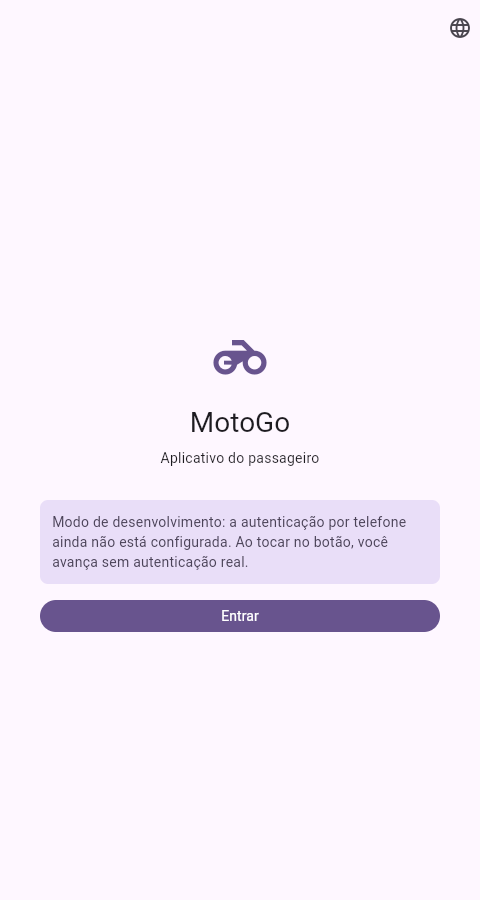
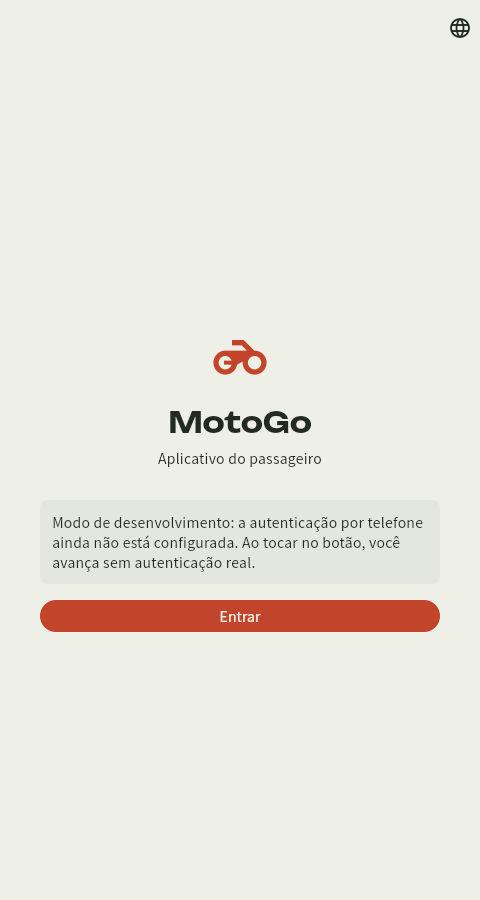
Apply MotoGo visual identity to the Flutter theme
Replaces the Flutter starter template's placeholder lavender seed color
(0xFF9C8DB6) with light/dark ColorSchemes built around two colors
specific to Registro itself, per the "MotoGo Visual Identity" design
artifact:

- Torii (vermillion, #C1442B): Registro's Torii gate, built 1993 to mark
  the arrival of the first Japanese immigrants to São Paulo state.
  Primary actions + the dropoff marker.
- Tea (muted green, #55704C): Registro has been the official "State
  Capital of Tea" (Lei 4.067/84) since 1984. Secondary/status accents —
  driver online indicator, pickup marker.

- New core/theme/motogo_theme.dart: explicit ColorScheme.light/.dark
  (not ColorScheme.fromSeed, since two specific brand colors need to
  land in specific roles) plus a TextTheme pairing Unbounded (display/
  headlines) with Noto Sans JP (body — has to render Portuguese and
  Japanese equally well). Exports toriiAccent/teaAccent as raw Colors
  for call sites without a BuildContext (the marker bitmaps drawn in
  passenger_home_screen.dart's initState).
- app.dart: theme/darkTheme wired to the new ColorSchemes, themeMode
  left at its default ThemeMode.system — the app just follows the
  device's own light/dark setting rather than reimplementing that
  switch (matches what was discussed with the user: standard practice
  is reading the OS setting, not sensing ambient light).
- passenger_home_screen.dart: pickup marker + status dot -> tea green,
[…]

Changed region(s): [[0.0625, 0.3733, 0.9375, 0.7156], [0.9375, 0.0, 0.9688, 0.0622]]

diff --git a/lib/core/theme/motogo_theme.dart b/lib/core/theme/motogo_theme.dart
@@ -1,0 +1,133 @@
+/// MotoGo's visual identity: light/dark [ThemeData] built around two colors
+/// specific to Registro itself, rather than a generic ride-hailing palette.
+/// See the "MotoGo Visual Identity" design artifact for the full rationale
+/// — in short:
+/// - **Torii** (vermillion): Registro's Torii gate, built 1993 to mark the
+///   arrival of the first Japanese immigrants to São Paulo state. Used for
+///   primary actions and the dropoff marker.
+/// - **Tea** (muted green): Registro has been the official "State Capital
+///   of Tea" (Lei 4.067/84) since 1984, from its tea plantations. Used for
+///   secondary/status accents (driver online, pickup marker).
+///
+/// This deliberately replaces the placeholder lavender seed color
+/// (`0xFF9C8DB6`) the Flutter starter template shipped with.
+///
+/// MotoGoのビジュアルアイデンティティ: 一般的な配車アプリの配色ではなく、
+/// Registro市自体に固有の2色を軸にした、ライト/ダーク両対応の
+/// [ThemeData]。詳しい経緯は「MotoGo Visual Identity」デザインArtifact
+/// 参照 — 要約すると:
+/// - **Torii（鳥居・朱色）**: 1993年、サンパウロ州への日系移民第一陣の
+///   到着を記念して建てられたRegistroの鳥居。主要なアクション、
+///   降車地点マーカーに使用。
+/// - **Tea（茶・落ち着いた緑）**: Registroは1984年の州法（4.067/84号）
+///   により正式に「茶の州都」を名乗る、茶畑の町。副次的なアクセント
+///   （ドライバーのオンライン状態、乗車地点マーカー）に使用。
+///
+/// これは、Flutterの初期テンプレートが持っていた仮のラベンダー色の
+/// seedColor（`0xFF9C8DB6`）を意図的に置き換えるもの。
+library;
+
+import 'package:flutter/material.dart';
+import 'package:google_fonts/google_fonts.dart';
+
+/// Raw brand colors, exposed directly for call sites that need a [Color]
+/// without a [BuildContext] to hand (e.g. the marker bitmaps drawn in
+/// `passenger_home_screen.dart`'s `initState`). Everywhere else, prefer
+/// reading `Theme.of(context).colorScheme` so light/dark mode is handled
+/// automatically.
+/// [BuildContext]を渡せない呼び出し元（例:
+/// `passenger_home_screen.dart`の`initState`内で描画するマーカー画像）の
+/// ために、生の色を直接公開している。それ以外の場所では、ライト/ダーク
+/// モードが自動で切り替わるよう`Theme.of(context).colorScheme`を
+/// 参照すること。
+const toriiAccent = Color(0xFFC1442B);
+const teaAccent = Color(0xFF55704C);
+
+const _toriiOnAccent = Color(0xFFFBF3EE);
+const _teaOnAccent = Color(0xFFF2F6EE);
+
+const _paperLight = Color(0xFFEEF0E7);
+const _surfaceLight = Color(0xFFFBFAF4);
+const _surfaceHighLight = Color(0xFFE4E7DB);
+const _fgLight = Color(0xFF232A1F);
+const _outlineLight = Color(0xFF656F5A);
+const _borderLight = Color(0xFFD9DCC9);
+
+const _bgDark = Color(0xFF14180F);
+const _surfaceDark = Color(0xFF1B2015);
+const _surfaceHighDark = Color(0xFF262C1D);
+const _fgDark = Color(0xFFECEEE2);
+const _outlineDark = Color(0xFF9CA48D);
+const _borderDark = Color(0xFF333A26);
+const _toriiAccentDark = Color(0xFFE2724F);
+const _toriiOnAccentDark = Color(0xFF2B1108);
+const _teaAccentDark = Color(0xFF8FAE81);
+const _teaOnAccentDark = Color(0xFF101B0C);
+
+final ColorScheme motogoLightColorScheme = ColorScheme.light(
+  primary: toriiAccent,
+  onPrimary: _toriiOnAccent,
+  primaryContainer: _surfaceHighLight,
+  onPrimaryContainer: _fgLight,
+  secondary: teaAccent,
+  onSecondary: _teaOnAccent,
+  secondaryContainer: _surfaceHighLight,
+  onSecondaryContainer: _fgLight,
+  surface: _paperLight,
+  onSurface: _fgLight,
+  surfaceContainer: _surfaceLight,
+  surfaceContainerHighest: _surfaceHighLight,
+  outline: _outlineLight,
+  outlineVariant: _borderLight,
+);
+
+final ColorScheme motogoDarkColorScheme = ColorScheme.dark(
+  primary: _toriiAccentDark,
+  onPrimary: _toriiOnAccentDark,
+  primaryContainer: _surfaceHighDark,
+  onPrimaryContainer: _fgDark,
+  secondary: _teaAccentDark,
+  onSecondary: _teaOnAccentDark,
+  secondaryContainer: _surfaceHighDark,
+  onSecondaryContainer: _fgDark,
+  surface: _bgDark,
+  onSurface: _fgDark,
+  surfaceContainer: _surfaceDark,
+  surfaceContainerHighest: _surfaceHighDark,
+  outline: _outlineDark,
+  outlineVariant: _borderDark,
+);
+
+/// Unbounded for display-scale text (the wordmark, screen headlines) paired
+/// with Noto Sans JP for everything else, since body text has to render
+/// both Portuguese and Japanese equally well.
+/// 見出し・ワードマーク用にUnbounded、それ以外はNoto Sans JPを使う —
+/// 本文はポルトガル語・日本語のどちらも同じ品質で表示する必要があるため。
+TextTheme _motogoTextTheme(ColorScheme scheme) {
+  final base = GoogleFonts.notoSansJpTextTheme().apply(
+    bodyColor: scheme.onSurface,
+    displayColor: scheme.onSurface,
+  );
+  return base.copyWith(
+    headlineMedium: GoogleFonts.unbounded(
+      textStyle: base.headlineMedium,
+      fontWeight: FontWeight.w700,
+    ),
+    headlineSmall: GoogleFonts.unbounded(
+      textStyle: base.headlineSmall,
+      fontWeight: FontWeight.w600,
+    ),
+  );
+}
+
+ThemeData _motogoTheme(ColorScheme scheme) {
+  return ThemeData(
+    useMaterial3: true,
+    colorScheme: scheme,
+    scaffoldBackgroundColor: scheme.surface,
+    textTheme: _motogoTextTheme(scheme),
+  );
+}
+
+final ThemeData motogoLightTheme = _motogoTheme(motogoLightColorScheme);
+final ThemeData motogoDarkTheme = _motogoTheme(motogoDarkColorScheme);

diff --git a/lib/features/passenger/home/passenger_home_screen.dart b/lib/features/passenger/home/passenger_home_screen.dart
@@ -9,6 +9,7 @@ import 'package:google_maps_flutter/google_maps_flutter.dart';
 import '../../../core/auth/auth_repository.dart';
 import '../../../core/auth/dev_auth_bypass.dart';
 import '../../../core/locale/language_switcher_button.dart';
+import '../../../core/theme/motogo_theme.dart';
 import '../../../l10n/generated/app_localizations.dart';
 
 /// Registro, SP city center — used as the default map camera position
@@ -184,8 +185,20 @@ class _PassengerHomeScreenState extends ConsumerState<PassengerHomeScreen> {
 
   Future<void> _loadMarkerIcons() async {
     final icons = await Future.wait([
-      _createPinBitmap(Colors.green),
-      _createPinBitmap(Colors.red),
+      // Pickup/dropoff use the brand palette (see core/theme/motogo_theme.dart)
+      // instead of generic Material red/green, so the map matches the rest
+      // of the app. The device-location dot deliberately stays plain blue —
+      // that's the universal "this is your live GPS position" convention
+      // from every native maps app, and changing it away from blue would
+      // hurt recognizability for no brand benefit.
+      // 乗車地点/降車地点はブランドカラー（core/theme/motogo_theme.dart参照）
+      // を使い、汎用的なMaterialの赤・緑にはしない — 地図がアプリ全体の
+      // 色と揃うように。現在地の点だけは意図的に青のまま —
+      // あらゆるネイティブ地図アプリ共通の「これが自分の現在地」という
+      // 慣習色であり、ブランド上のメリット無しにこれを変えると
+      // 視認性が下がるだけのため。
+      _createPinBitmap(teaAccent),
+      _createPinBitmap(toriiAccent),
       _createPinBitmap(Colors.blue),
     ]);
     if (!mounted) return;
@@ -537,7 +550,7 @@ class _PassengerHomeScreenState extends ConsumerState<PassengerHomeScreen> {
                       Expanded(
                         child: _RideStatusLine(
                           icon: Icons.circle,
-                          color: Colors.green,
+                          color: teaAccent,
                           label: _pickupLocation == null
                               ? l10n.passengerPickupNotSet
                               : l10n.passengerPickupSet,
@@ -575,7 +588,7 @@ class _PassengerHomeScreenState extends ConsumerState<PassengerHomeScreen> {
                   const SizedBox(height: 4),
                   _RideStatusLine(
                     icon: Icons.location_on,
-                    color: Colors.red,
+                    color: toriiAccent,
                     label: _dropoffLocation == null
                         ? l10n.passengerDropoffNotSet
                         : l10n.passengerDropoffSet,

diff --git a/lib/app.dart b/lib/app.dart
@@ -4,6 +4,7 @@ import 'package:flutter_riverpod/flutter_riverpod.dart';
 
 import 'core/locale/locale_controller.dart';
 import 'core/router/app_router.dart';
+import 'core/theme/motogo_theme.dart';
 import 'flavors.dart';
 import 'l10n/generated/app_localizations.dart';
 
@@ -31,12 +32,19 @@ class MotoGoApp extends ConsumerWidget {
         };
       },
       debugShowCheckedModeBanner: false,
-      theme: ThemeData(
-        useMaterial3: true,
-        colorScheme: ColorScheme.fromSeed(
-          seedColor: const Color(0xFF9C8DB6),
-        ),
-      ),
+      // See core/theme/motogo_theme.dart for the palette rationale (torii
+      // vermillion + tea green, both specific to Registro itself) — this
+      // replaces the Flutter starter template's placeholder lavender
+      // seedColor. themeMode defaults to ThemeMode.system, so the app
+      // simply follows the device's own light/dark setting rather than
+      // reimplementing that switch itself.
+      // パレットの根拠は core/theme/motogo_theme.dart 参照
+      // （鳥居の朱色＋茶畑の緑、どちらもRegistro固有）— Flutter初期
+      // テンプレートの仮のラベンダー色seedColorを置き換える。themeMode は
+      // デフォルトの ThemeMode.system のままにしているため、明暗切り替え
+      // 自体を自前で作らず、端末側のライト/ダーク設定にそのまま従う。
+      theme: motogoLightTheme,
+      darkTheme: motogoDarkTheme,
       // null means "follow the device's language" — resolved against
       // supportedLocales by localeResolutionCallback below, falling back
       // to pt (see core/locale/locale_controller.dart for why pt is the

diff --git a/lib/features/driver/home/driver_home_screen.dart b/lib/features/driver/home/driver_home_screen.dart
@@ -94,7 +94,17 @@ class _DriverHomeScreenState extends ConsumerState<DriverHomeScreen> {
               children: [
                 Icon(
                   _isOnline ? Icons.circle : Icons.circle_outlined,
-                  color: _isOnline ? Colors.green : Colors.grey,
+                  // "Online" uses the theme's secondary (tea green — see
+                  // core/theme/motogo_theme.dart), matching the pickup
+                  // marker/pill on the passenger side rather than a
+                  // generic Material green.
+                  // 「オンライン」はテーマのsecondary（茶の緑 —
+                  // core/theme/motogo_theme.dart参照）を使う。汎用的な
+                  // Material緑ではなく、乗客側の乗車地点マーカー/ピルと
+                  // 揃える。
+                  color: _isOnline
+                      ? Theme.of(context).colorScheme.secondary
+                      : Theme.of(context).colorScheme.outline,
                   size: 14,
                 ),
                 const SizedBox(width: 8),
